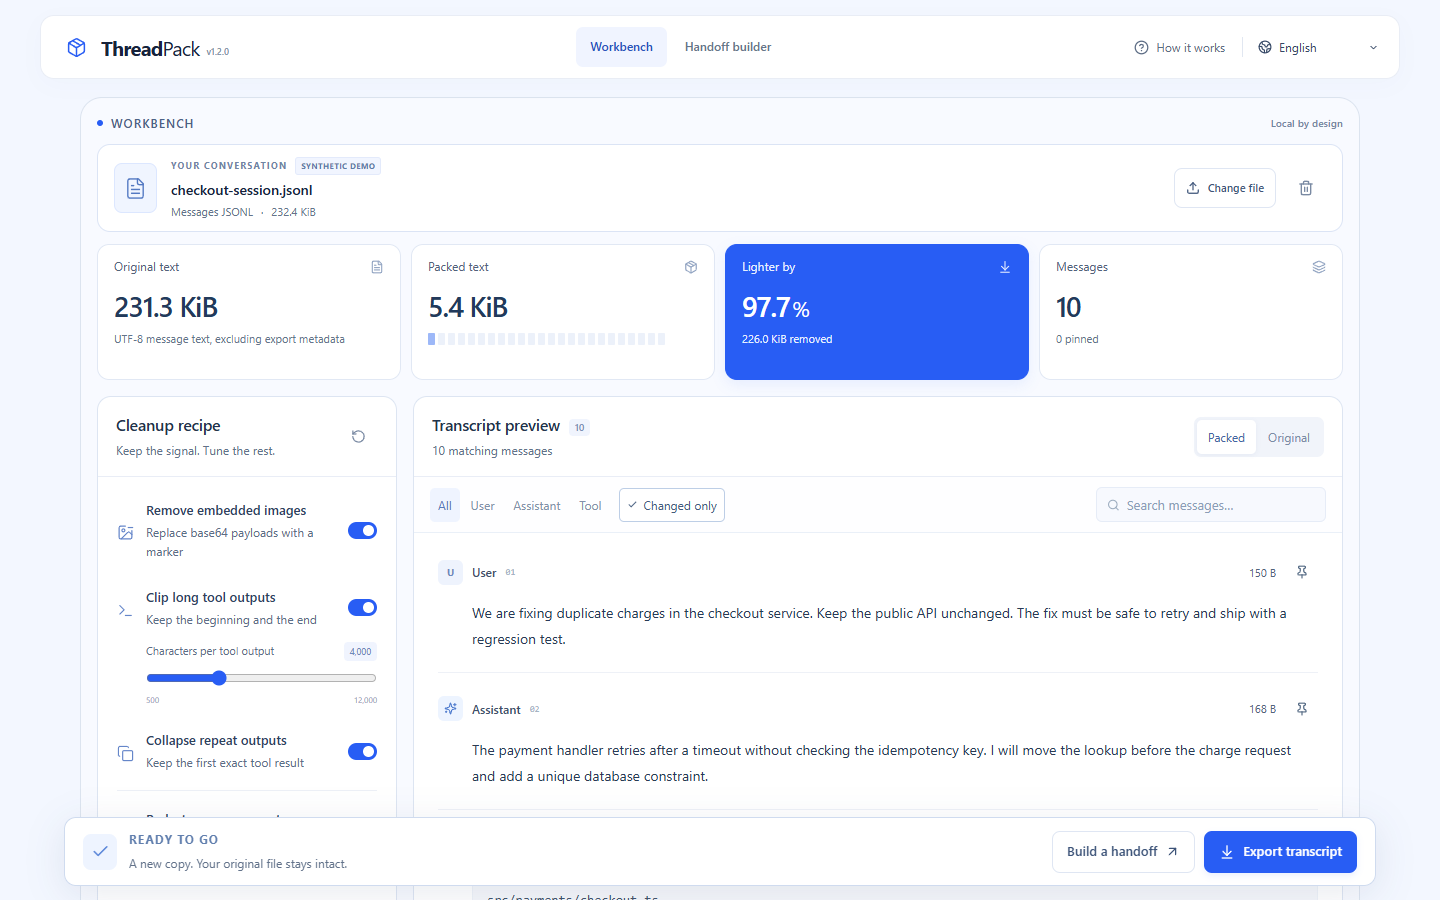
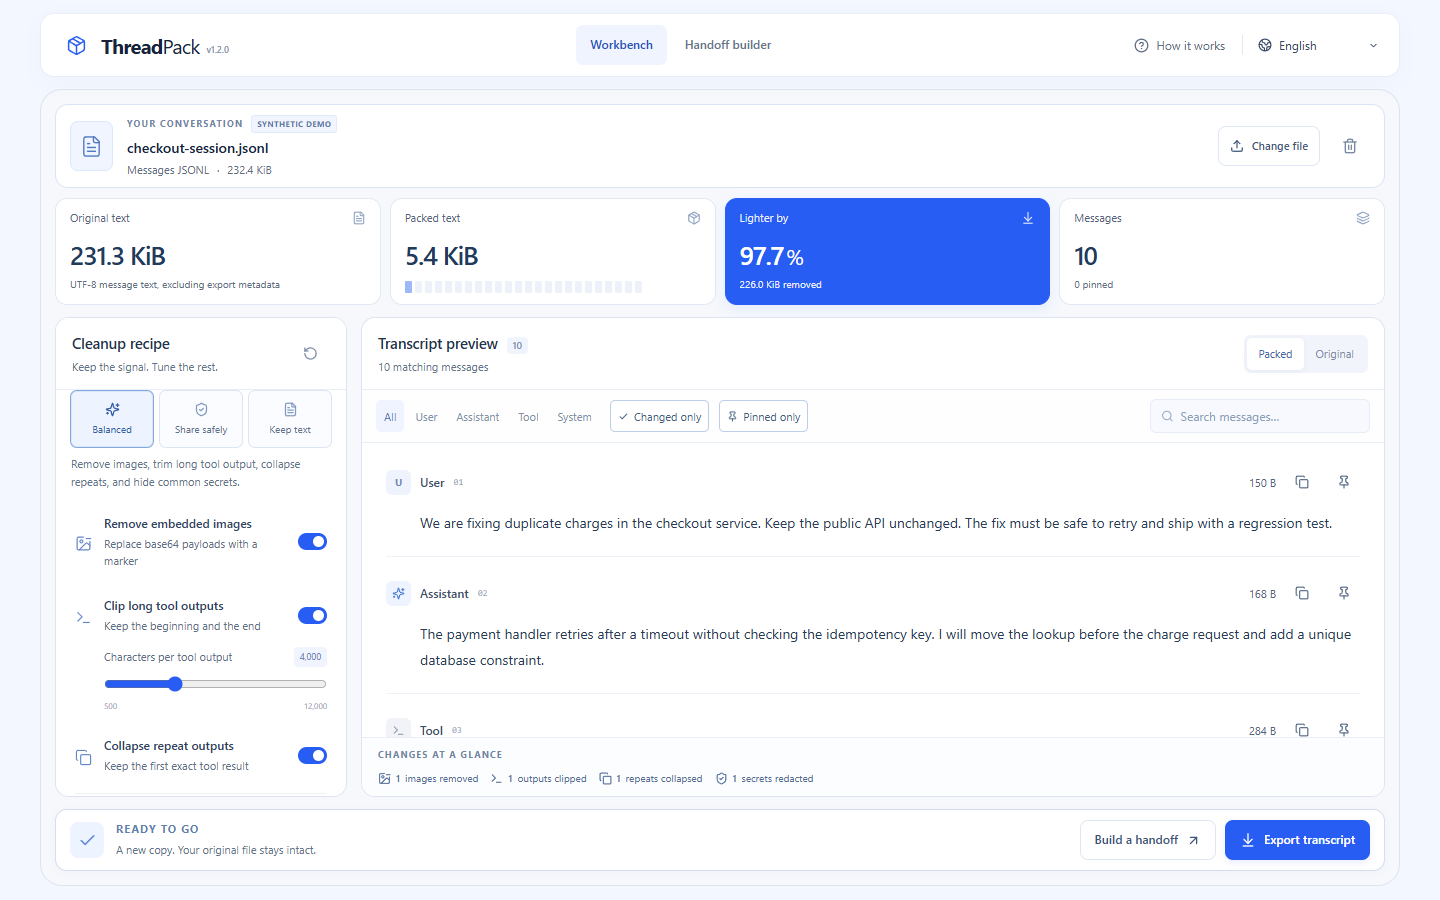
docs: refresh product screenshots and review workflow guidance

diff --git a/docs/ARCHITECTURE.md b/docs/ARCHITECTURE.md
@@ -8,6 +8,7 @@ flowchart LR
     UI[React workbench] -->|Typed RPC with archive and revision| Worker
     Worker -->|Current page: at most 30 bounded messages| UI
     Worker -->|One complete message after explicit copy| Clipboard[System clipboard]
+    Worker -->|One bounded before/after comparison| UI
     Worker -->|Transferable export buffer| Download[New downloaded file]
     SW[Service Worker] -->|Public shell only| Cache[HTML + manifest + icons]
 ```
@@ -16,7 +17,7 @@ The page sends the `File` to the worker, which reads bytes incrementally and rep
 
 Archive identifiers distinguish accepted files from cancelled candidate imports. Cleanup revisions identify an exact immutable recipe result. Queries, exports, and handoffs require that revision; stale requests cannot silently use a different cleanup configuration. React also checks the matching recipe and request generation before accepting responses.
 
-Both original and packed search run over complete worker-owned message bodies. The interface receives only the requested page, with long content replaced by bounded previews. Export and handoff generation use complete retained messages in the worker rather than reconstructing content from the preview. An explicit per-message copy request returns that single complete message in the selected original or packed mode. Pinned-only filtering is combined with role, changed-message, and text filters in the worker. `ArrayBuffer` export responses transfer ownership instead of structured-cloning the buffer. React's deferred query value avoids putting search work on the input event path.
+Both original and packed search run over complete worker-owned message bodies. The interface receives only the requested page, with long content replaced by bounded previews. Export and handoff generation use complete retained messages in the worker rather than reconstructing content from the preview. An explicit per-message copy request returns that single complete message in the selected original or packed mode. A separate review request returns at most 12,000 characters each from one message's original and cleaned form, with image payloads hidden and truncation disclosed. Pinned-only filtering is combined with role, changed-message, and text filters in the worker. `ArrayBuffer` export responses transfer ownership instead of structured-cloning the buffer. React's deferred query value avoids putting search work on the input event path.
 
 ## Measured comparison
 

diff --git a/docs/QA.md b/docs/QA.md
@@ -60,4 +60,14 @@ The follow-up iteration adds a worker-side pinned-message filter, an explicit fu
 - `npm audit --omit=dev`: no production dependency vulnerabilities reported.
 - No real conversation archive was used; all new copy and scroll fixtures are synthetic.
 
+## Follow-up verification: cleanup recipes and message comparison
+
+The current iteration adds one-click Balanced, Share safely, and Keep text recipes, plus a per-message before/after review that uses bounded Worker excerpts and keeps imported markup as text.
+
+- `npm test`: 101 core, CLI, localization, preview, Worker, and cleanup-recipe tests passed.
+- `npm run test:e2e -- --workers=2`: 44 browser tests passed in installed Chrome, including custom-rule preservation, safe text rendering, long-message excerpt notices, mobile dialog width, a single note-protection dialog after replacing files from comparison, offline installation, and standalone HTML exports.
+- `npm run check` and `npm run build`: passed.
+- All recipe labels, explanations, and comparison warnings are present in English, Simplified Chinese, Japanese, French, and Spanish.
+- The landing page shows a synthetic before/after example and opens the matching demo. The existing five-language tests exercise this entry point on mobile. Thumbnail contact-sheet reviews covered the landing page, desktop workbench, desktop comparison, mobile cleanup sheet, and mobile comparison.
+
 Measured layout and RPC comparisons are recorded in [ARCHITECTURE.md](ARCHITECTURE.md). README screenshots use a 1440 × 900 viewport so they show the same persistent export controls a desktop user sees.

diff --git a/README.md b/README.md
@@ -48,8 +48,8 @@ Provider exports change over time. Unsupported records and partial imports produ
 ## Processing workflow
 
 1. **Import** a local file, paste text, or load the included synthetic demo. Select a conversation if the archive contains several.
-2. **Configure cleanup:** remove embedded images, clip long tool outputs while retaining the beginning and end, collapse exact repeated tool outputs, redact recognized secrets, and optionally redact email addresses or your own exact values.
-3. **Review** the packed and original views. Filter to changed or pinned messages, inspect per-message cleanup labels, search within long messages, copy a complete message in the selected view, and pin the context that should remain in a handoff.
+2. **Configure cleanup:** start with a balanced, share-safe, or keep-text recipe, then adjust individual rules. Remove embedded images, clip long tool outputs, collapse exact repeats, and redact recognized secrets, email addresses, or your own exact values.
+3. **Review** the packed and original views. Filter to changed or pinned messages, open a bounded before/after review on any changed message, search within long messages, copy a complete message in the selected view, and pin the context that should remain in a handoff.
 4. **Export** a Markdown transcript, normalized JSONL, aggregate cleanup report, or a handoff with goal, decisions, constraints, and next steps.
 
 Original files are not modified. The interface reports UTF-8 message-text bytes and change counts; these measurements exclude source metadata and are not provider token or billing estimates.
